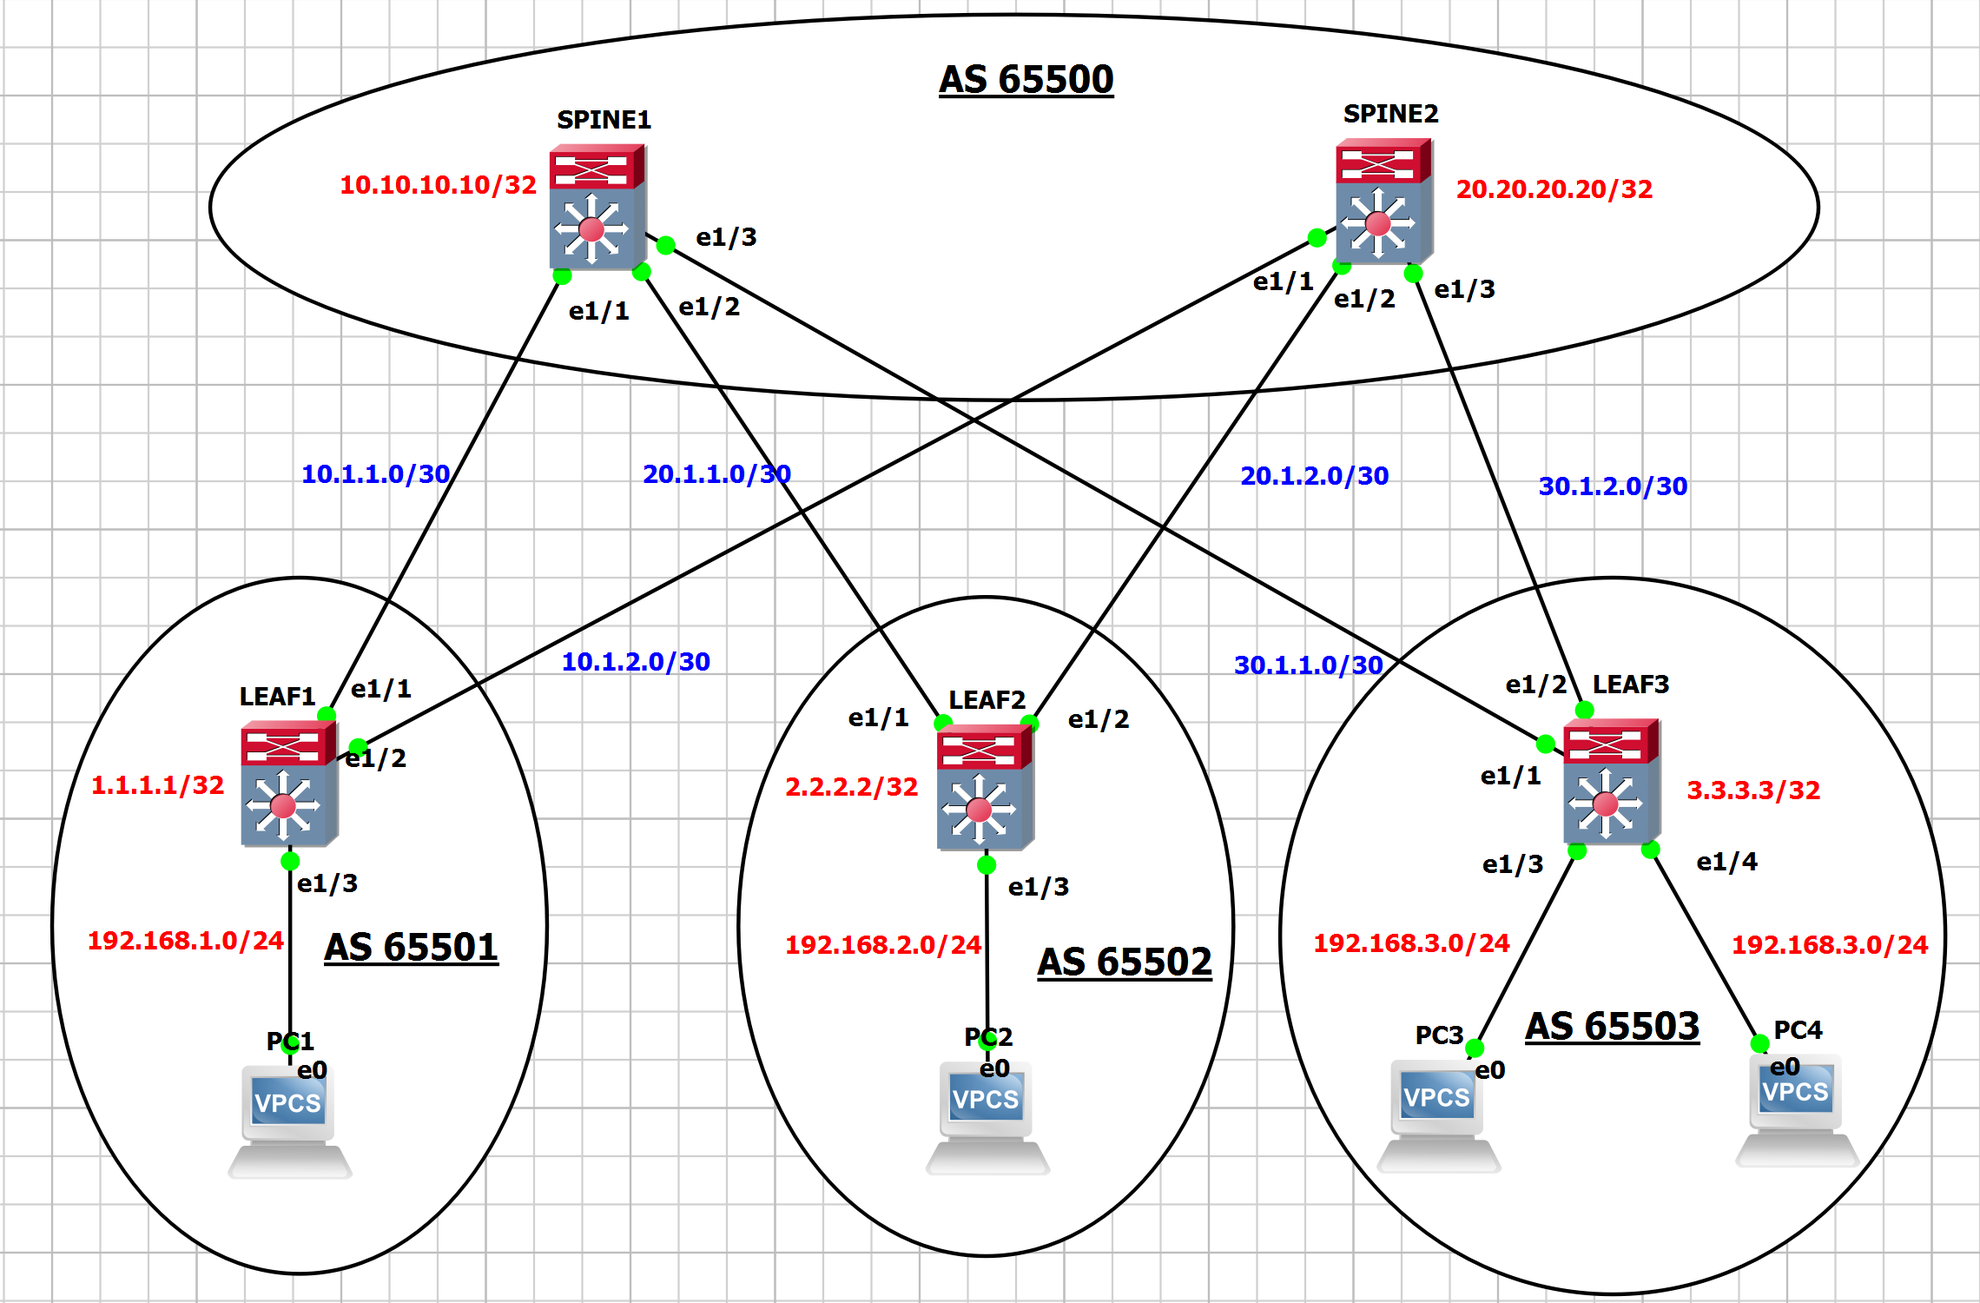
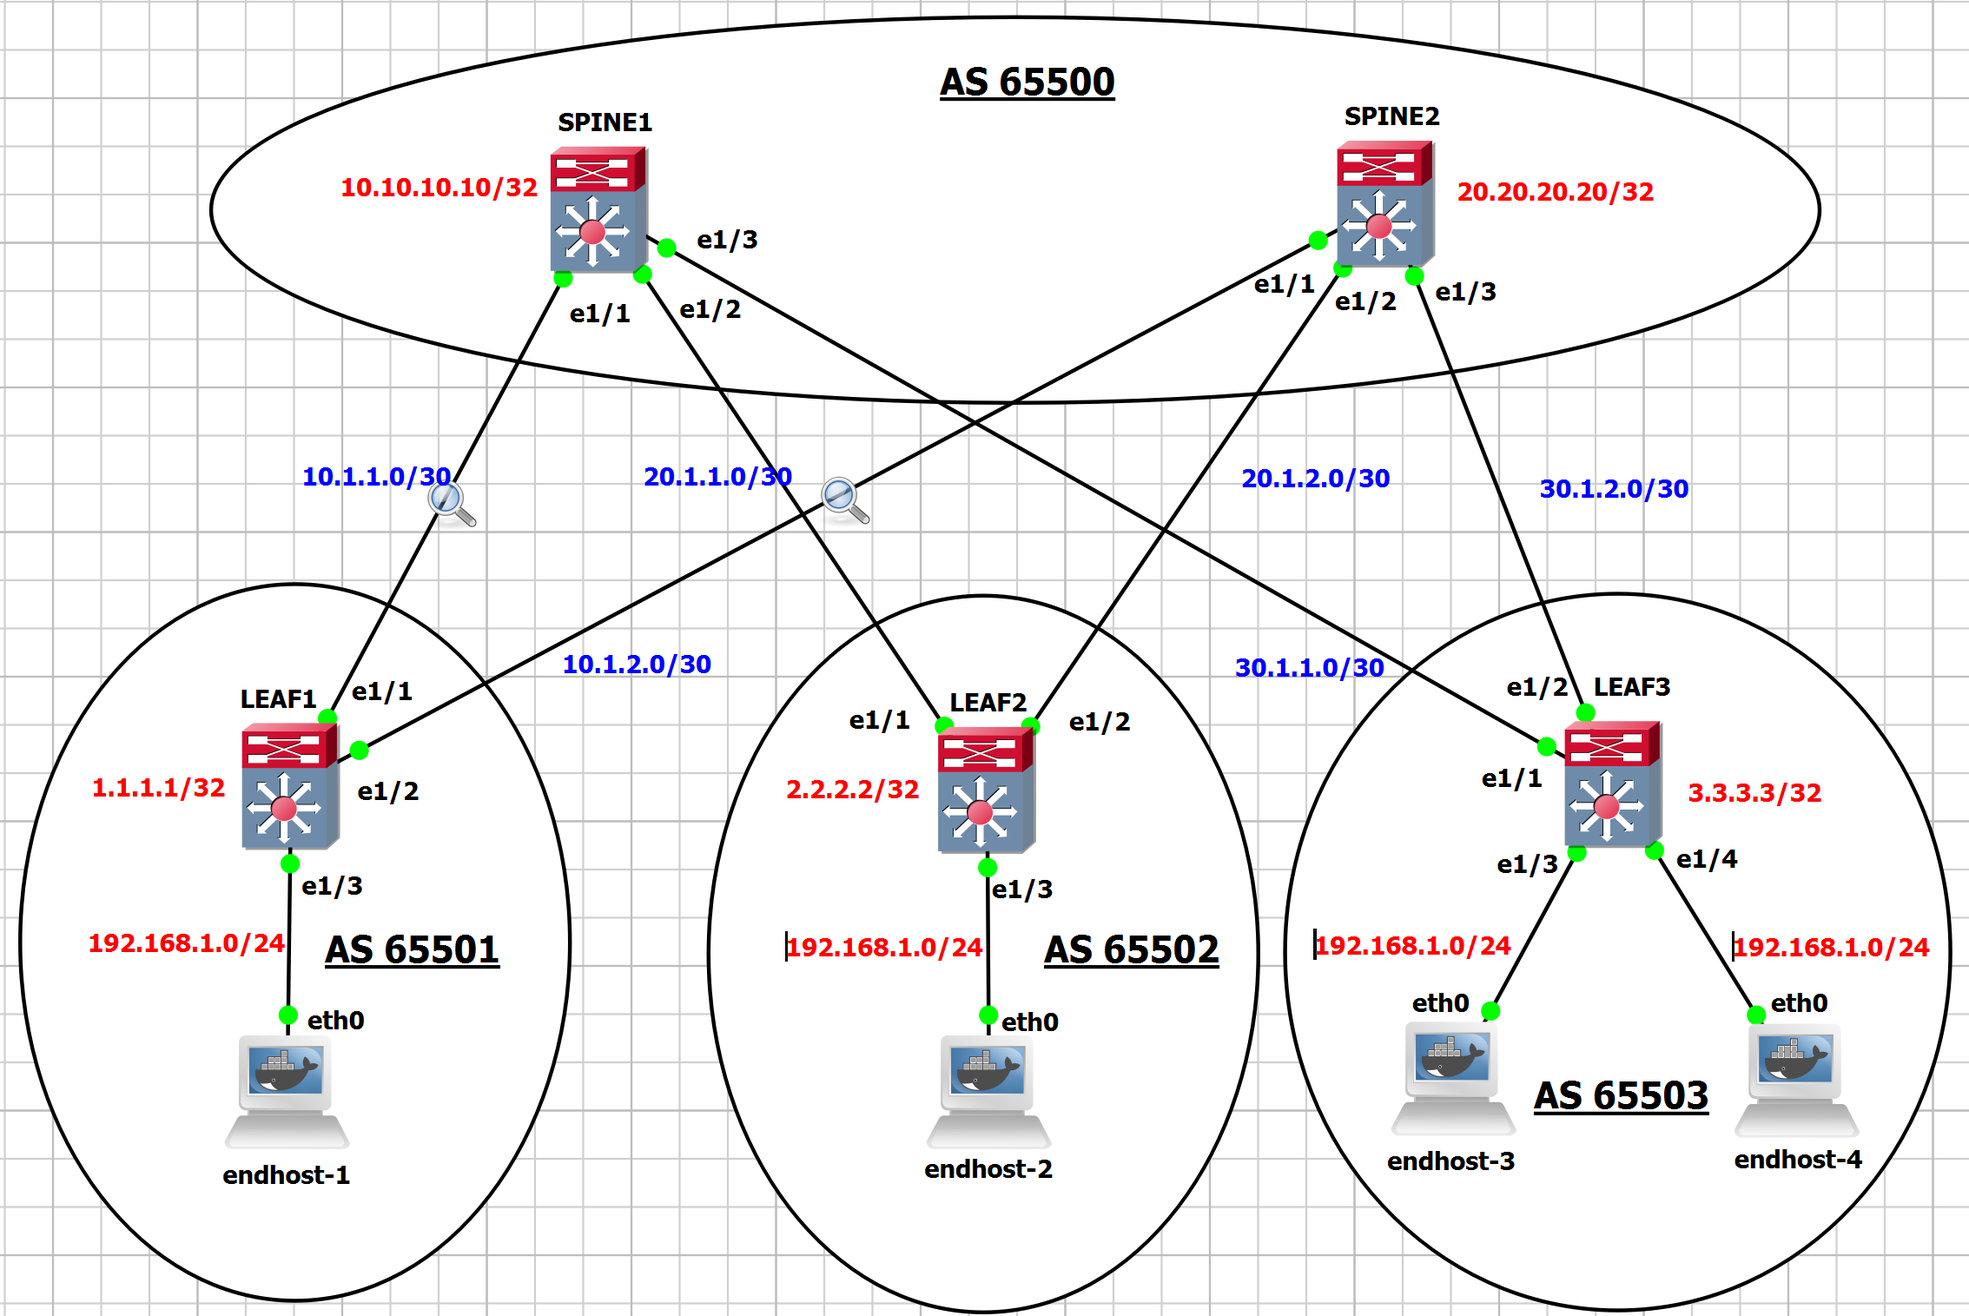
GITBOOK-32: No subject

Changed region(s): [[0.0, 0.0, 1.0, 1.0], [0.0926, 0.7667, 0.1853, 0.92], [0.5558, 0.2453, 0.5867, 0.276]]

diff --git a/labs/lab5/lab5.md b/labs/lab5/lab5.md
@@ -29,11 +29,6 @@ vlan 65
   
 route-map DIRECT-ROUTES-MAP permit 10
 
-interface Vlan65
-  description to_PC1
-  no shutdown
-  ip address 192.168.1.1/24
-
 interface nve1
   no shutdown
   host-reachability protocol bgp
@@ -116,11 +111,6 @@ vlan 65
 
 route-map DIRECT-ROUTES-MAP permit 10
 
-interface Vlan65
-  description to_PC2
-  no shutdown
-  ip address 192.168.2.1/24
-
 interface nve1
   no shutdown
   host-reachability protocol bgp
@@ -200,11 +190,6 @@ vlan 65
   vn-segment 100065
 
 route-map DIRECT-ROUTES-MAP permit 10
-
-interface Vlan65
-  description to_PC2
-  no shutdown
-  ip address 192.168.3.1/24
 
 interface nve1
   no shutdown
@@ -443,14 +428,14 @@ l2vpn evpn BGP соседства
 <pre><code><strong>LEAF1# show bgp l2vpn evpn summary
 </strong>BGP summary information for VRF default, address family L2VPN EVPN
 BGP router identifier 1.1.1.1, local AS number 65501
-BGP table version is 28, L2VPN EVPN config peers 2, capable peers 2
+BGP table version is 372, L2VPN EVPN config peers 2, capable peers 2
 12 network entries and 17 paths using 3504 bytes of memory
 BGP attribute entries [8/2880], BGP AS path entries [2/20]
 BGP community entries [0/0], BGP clusterlist entries [0/0]
 
 Neighbor        V    AS    MsgRcvd    MsgSent   TblVer  InQ OutQ Up/Down  State/PfxRcd
-10.10.10.10     4 65500      57727      57713       28    0    0    2d00h 5
-20.20.20.20     4 65500      57578      58649       28    0    0    1d23h 5
+10.10.10.10     4 65500      22285      22243      372    0    0 00:07:11 5
+20.20.20.20     4 65500      22284      22242      372    0    0 00:07:12 5
 
 Neighbor        T    AS PfxRcd     Type-2     Type-3     Type-4     Type-5
 10.10.10.10     I 65500 5          3          2          0          0
@@ -459,15 +444,15 @@ Neighbor        T    AS PfxRcd     Type-2     Type-3     Type-4     Type-5
 <strong>SPINE1# show bgp l2vpn evpn summary
 </strong>BGP summary information for VRF default, address family L2VPN EVPN
 BGP router identifier 10.10.10.10, local AS number 65500
-BGP table version is 41, L2VPN EVPN config peers 3, capable peers 3
+BGP table version is 175, L2VPN EVPN config peers 3, capable peers 3
 7 network entries and 7 paths using 2044 bytes of memory
 BGP attribute entries [6/2160], BGP AS path entries [3/18]
 BGP community entries [0/0], BGP clusterlist entries [0/0]
 
 Neighbor        V    AS    MsgRcvd    MsgSent   TblVer  InQ OutQ Up/Down  State/PfxRcd
-1.1.1.1         4 65501      57700      57694       41    0    0    2d00h 2
-2.2.2.2         4 65502      57512      58628       41    0    0    1d23h 2
-3.3.3.3         4 65503      57430      58534       41    0    0    1d23h 3
+1.1.1.1         4 65501      22268      22246      175    0    0 00:07:28 2
+2.2.2.2         4 65502      22272      22237      175    0    0 00:07:19 2
+3.3.3.3         4 65503      22271      22245      175    0    0 00:07:14 3
 
 Neighbor        T    AS PfxRcd     Type-2     Type-3     Type-4     Type-5
 1.1.1.1         I 65501 2          1          1          0          0
@@ -477,9 +462,8 @@ Neighbor        T    AS PfxRcd     Type-2     Type-3     Type-4     Type-5
 
 Полученные параметры RD и RT на LEAF1
 
-```
-LEAF1# sh bgp internal evi 100065 | i BGP|RD|RT
-BGP L2VPN/EVPN RD Information for 1.1.1.1:32832
+<pre><code><strong>LEAF1# sh bgp internal evi 100065 | i BGP|RD|RT
+</strong>BGP L2VPN/EVPN RD Information for 1.1.1.1:32832
 BGP Configured EVI Information:
   RD                         : 1.1.1.1:32832
   Secondary RD               : None
@@ -505,27 +489,27 @@ BGP VNI Information for L2-100065
   Config Import RTs          : 1
   Config Import RT list      :
   Import RT chg/chg-pending  : 0/0
-```
+</code></pre>
 
 l2vpn evpn маршруты
 
 <pre><code><strong>LEAF1# show bgp l2vpn evpn
 </strong>BGP routing table information for VRF default, address family L2VPN EVPN
-BGP table version is 28, Local Router ID is 1.1.1.1
+BGP table version is 372, Local Router ID is 1.1.1.1
 Status: s-suppressed, x-deleted, S-stale, d-dampened, h-history, *-valid, >-best
 Path type: i-internal, e-external, c-confed, l-local, a-aggregate, r-redist, I-injected
 Origin codes: i - IGP, e - EGP, ? - incomplete, | - multipath, &#x26; - backup, 2 - best2
 
    Network            Next Hop            Metric     LocPrf     Weight Path
 Route Distinguisher: 1.1.1.1:32832    (L2VNI 100065)
-*>l[2]:[0]:[0]:[48]:[0050.7966.6800]:[0]:[0.0.0.0]/216
-                      1.1.1.1                           100      32768 i
-*>e[2]:[0]:[0]:[48]:[0050.7966.6801]:[0]:[0.0.0.0]/216
+*>e[2]:[0]:[0]:[48]:[0242.3322.0900]:[0]:[0.0.0.0]/216
                       2.2.2.2                                        0 65500 65502 i
-*>e[2]:[0]:[0]:[48]:[0050.7966.6802]:[0]:[0.0.0.0]/216
+*>e[2]:[0]:[0]:[48]:[0242.48c5.3100]:[0]:[0.0.0.0]/216
                       3.3.3.3                                        0 65500 65503 i
-*>e[2]:[0]:[0]:[48]:[0050.7966.6803]:[0]:[0.0.0.0]/216
+*>e[2]:[0]:[0]:[48]:[0242.5cca.f100]:[0]:[0.0.0.0]/216
                       3.3.3.3                                        0 65500 65503 i
+*>l[2]:[0]:[0]:[48]:[0242.689d.c100]:[0]:[0.0.0.0]/216
+                      1.1.1.1                           100      32768 i
 *>l[3]:[0]:[32]:[1.1.1.1]/88
                       1.1.1.1                           100      32768 i
 *>e[3]:[0]:[32]:[2.2.2.2]/88
@@ -534,62 +518,62 @@ Route Distinguisher: 1.1.1.1:32832    (L2VNI 100065)
                       3.3.3.3                                        0 65500 65503 i
 
 Route Distinguisher: 2.2.2.2:32832
-* e[2]:[0]:[0]:[48]:[0050.7966.6801]:[0]:[0.0.0.0]/216
+*>e[2]:[0]:[0]:[48]:[0242.3322.0900]:[0]:[0.0.0.0]/216
                       2.2.2.2                                        0 65500 65502 i
-*>e                   2.2.2.2                                        0 65500 65502 i
-* e[3]:[0]:[32]:[2.2.2.2]/88
+* e                   2.2.2.2                                        0 65500 65502 i
+*>e[3]:[0]:[32]:[2.2.2.2]/88
                       2.2.2.2                                        0 65500 65502 i
-*>e                   2.2.2.2                                        0 65500 65502 i
+* e                   2.2.2.2                                        0 65500 65502 i
 
 Route Distinguisher: 3.3.3.3:32832
-*>e[2]:[0]:[0]:[48]:[0050.7966.6802]:[0]:[0.0.0.0]/216
+* e[2]:[0]:[0]:[48]:[0242.48c5.3100]:[0]:[0.0.0.0]/216
                       3.3.3.3                                        0 65500 65503 i
-* e                   3.3.3.3                                        0 65500 65503 i
-* e[2]:[0]:[0]:[48]:[0050.7966.6803]:[0]:[0.0.0.0]/216
+*>e                   3.3.3.3                                        0 65500 65503 i
+* e[2]:[0]:[0]:[48]:[0242.5cca.f100]:[0]:[0.0.0.0]/216
                       3.3.3.3                                        0 65500 65503 i
 *>e                   3.3.3.3                                        0 65500 65503 i
 *>e[3]:[0]:[32]:[3.3.3.3]/88
                       3.3.3.3                                        0 65500 65503 i
 * e                   3.3.3.3                                        0 65500 65503 i
 
-<strong>LEAF1# show bgp l2vpn evpn 0050.7966.6803
+<strong>LEAF1# show bgp l2vpn evpn 0242.3322.0900
 </strong>BGP routing table information for VRF default, address family L2VPN EVPN
 Route Distinguisher: 1.1.1.1:32832    (L2VNI 100065)
-BGP routing table entry for [2]:[0]:[0]:[48]:[0050.7966.6803]:[0]:[0.0.0.0]/216, version 20
+BGP routing table entry for [2]:[0]:[0]:[48]:[0242.3322.0900]:[0]:[0.0.0.0]/216, version 361
 Paths: (1 available, best #1)
 Flags: (0x000212) (high32 00000000) on xmit-list, is in l2rib/evpn, is not in HW
 Multipath: eBGP
 
   Advertised path-id 1
   Path type: external, path is valid, is best path, no labeled nexthop, in rib
-             Imported from 3.3.3.3:32832:[2]:[0]:[0]:[48]:[0050.7966.6803]:[0]:[0.0.0.0]/216
-  AS-Path: 65500 65503 , path sourced external to AS
-    3.3.3.3 (metric 0) from 10.10.10.10 (10.10.10.10)
+             Imported from 2.2.2.2:32832:[2]:[0]:[0]:[48]:[0242.3322.0900]:[0]:[0.0.0.0]/216
+  AS-Path: 65500 65502 , path sourced external to AS
+    2.2.2.2 (metric 0) from 20.20.20.20 (20.20.20.20)
       Origin IGP, MED not set, localpref 100, weight 0
       Received label 100065
       Extcommunity: RT:65501:100065 ENCAP:8
 
   Path-id 1 not advertised to any peer
 
-Route Distinguisher: 3.3.3.3:32832
-BGP routing table entry for [2]:[0]:[0]:[48]:[0050.7966.6803]:[0]:[0.0.0.0]/216, version 21
-Paths: (2 available, best #2)
+Route Distinguisher: 2.2.2.2:32832
+BGP routing table entry for [2]:[0]:[0]:[48]:[0242.3322.0900]:[0]:[0.0.0.0]/216, version 363
+Paths: (2 available, best #1)
 Flags: (0x000202) (high32 00000000) on xmit-list, is not in l2rib/evpn, is not in HW
 Multipath: eBGP
-
-  Path type: external, path is valid, not best reason: newer EBGP path, no labeled nexthop
-  AS-Path: 65500 65503 , path sourced external to AS
-    3.3.3.3 (metric 0) from 20.20.20.20 (20.20.20.20)
-      Origin IGP, MED not set, localpref 100, weight 0
-      Received label 100065
-      Extcommunity: RT:65501:100065 ENCAP:8
 
   Advertised path-id 1
   Path type: external, path is valid, is best path, no labeled nexthop
              Imported to 1 destination(s)
              Imported paths list: L2-100065
-  AS-Path: 65500 65503 , path sourced external to AS
-    3.3.3.3 (metric 0) from 10.10.10.10 (10.10.10.10)
+  AS-Path: 65500 65502 , path sourced external to AS
+    2.2.2.2 (metric 0) from 20.20.20.20 (20.20.20.20)
+      Origin IGP, MED not set, localpref 100, weight 0
+      Received label 100065
+      Extcommunity: RT:65501:100065 ENCAP:8
+
+  Path type: external, path is valid, not best reason: newer EBGP path, no labeled nexthop
+  AS-Path: 65500 65502 , path sourced external to AS
+    2.2.2.2 (metric 0) from 10.10.10.10 (10.10.10.10)
       Origin IGP, MED not set, localpref 100, weight 0
       Received label 100065
       Extcommunity: RT:65501:100065 ENCAP:8
@@ -615,86 +599,123 @@ Flags -(Rmac):Router MAC (Stt):Static (L):Local (R):Remote
 (PipPeerOrp): Orphan connected to peer of PIP based vPC BGW
 Topology    Mac Address    Prod   Flags              Seq No     Next-Hops
 ----------- -------------- ------ ------------------- ---------- ---------------------------------------------------------
-65          0050.7966.6800 Local  L,                 0          Eth1/3
-65          0050.7966.6801 BGP    Rcv                0          2.2.2.2 (Label: 100065)
-65          0050.7966.6802 BGP    Rcv                0          3.3.3.3 (Label: 100065)
-65          0050.7966.6803 BGP    Rcv                0          3.3.3.3 (Label: 100065)
+65          0242.3322.0900 BGP    Rcv                0          2.2.2.2 (Label: 100065)
+65          0242.48c5.3100 BGP    Rcv                0          3.3.3.3 (Label: 100065)
+65          0242.5cca.f100 BGP    Rcv                0          3.3.3.3 (Label: 100065)
+65          0242.689d.c100 Local  L,                 0          Eth1/3
 </code></pre>
 
 <pre><code><strong>SPINE1# show bgp l2vpn evpn
 </strong>BGP routing table information for VRF default, address family L2VPN EVPN
-BGP table version is 41, Local Router ID is 10.10.10.10
+BGP table version is 175, Local Router ID is 10.10.10.10
 Status: s-suppressed, x-deleted, S-stale, d-dampened, h-history, *-valid, >-best
 Path type: i-internal, e-external, c-confed, l-local, a-aggregate, r-redist, I-injected
 Origin codes: i - IGP, e - EGP, ? - incomplete, | - multipath, &#x26; - backup, 2 - best2
 
    Network            Next Hop            Metric     LocPrf     Weight Path
 Route Distinguisher: 1.1.1.1:32832
-*>e[2]:[0]:[0]:[48]:[0050.7966.6800]:[0]:[0.0.0.0]/216
+*>e[2]:[0]:[0]:[48]:[0242.689d.c100]:[0]:[0.0.0.0]/216
                       1.1.1.1                                        0 65501 i
 *>e[3]:[0]:[32]:[1.1.1.1]/88
                       1.1.1.1                                        0 65501 i
 
 Route Distinguisher: 2.2.2.2:32832
-*>e[2]:[0]:[0]:[48]:[0050.7966.6801]:[0]:[0.0.0.0]/216
+*>e[2]:[0]:[0]:[48]:[0242.3322.0900]:[0]:[0.0.0.0]/216
                       2.2.2.2                                        0 65502 i
 *>e[3]:[0]:[32]:[2.2.2.2]/88
                       2.2.2.2                                        0 65502 i
 
 Route Distinguisher: 3.3.3.3:32832
-*>e[2]:[0]:[0]:[48]:[0050.7966.6802]:[0]:[0.0.0.0]/216
+*>e[2]:[0]:[0]:[48]:[0242.48c5.3100]:[0]:[0.0.0.0]/216
                       3.3.3.3                                        0 65503 i
-*>e[2]:[0]:[0]:[48]:[0050.7966.6803]:[0]:[0.0.0.0]/216
+*>e[2]:[0]:[0]:[48]:[0242.5cca.f100]:[0]:[0.0.0.0]/216
                       3.3.3.3                                        0 65503 i
 *>e[3]:[0]:[32]:[3.3.3.3]/88
-                      3.3.3.3                                        0 65503 i
+                      3.3.3.3                                        0 65503 i                         0 65503 i
 
-<strong>SPINE1# show bgp l2vpn evpn 0050.7966.6800
+<strong>SPINE1# show bgp l2vpn evpn 0242.3322.0900
 </strong>BGP routing table information for VRF default, address family L2VPN EVPN
-Route Distinguisher: 1.1.1.1:32832
-BGP routing table entry for [2]:[0]:[0]:[48]:[0050.7966.6800]:[0]:[0.0.0.0]/216, version 41
+Route Distinguisher: 2.2.2.2:32832
+BGP routing table entry for [2]:[0]:[0]:[48]:[0242.3322.0900]:[0]:[0.0.0.0]/216, version 168
 Paths: (1 available, best #1)
 Flags: (0x000202) (high32 00000000) on xmit-list, is not in l2rib/evpn, is not in HW
 
   Advertised path-id 1
   Path type: external, path is valid, is best path, no labeled nexthop
-  AS-Path: 65501 , path sourced external to AS
-    1.1.1.1 (metric 0) from 1.1.1.1 (1.1.1.1)
+  AS-Path: 65502 , path sourced external to AS
+    2.2.2.2 (metric 0) from 2.2.2.2 (2.2.2.2)
       Origin IGP, MED not set, localpref 100, weight 0
       Received label 100065
       Extcommunity: RT:65500:100065 ENCAP:8
 
   Path-id 1 advertised to peers:
-    2.2.2.2            3.3.3.3
+    1.1.1.1            3.3.3.3
 </code></pre>
 
-Проверка связности между PC1 и PC3
-
-Видим, что связность в текущей конфигурации между хостами сохранена.
+Проверка связности между endhost-1, endhost-2, endhost-3 и endhost-4&#x20;
 
 ```
-PC1> show ip
+/ # ip a
+1: lo: <LOOPBACK,UP,LOWER_UP> mtu 65536 qdisc noqueue state UNKNOWN qlen 1000
+    link/loopback 00:00:00:00:00:00 brd 00:00:00:00:00:00
+    inet 127.0.0.1/8 scope host lo
+       valid_lft forever preferred_lft forever
+    inet6 ::1/128 scope host
+       valid_lft forever preferred_lft forever
+14: eth0: <BROADCAST,MULTICAST,UP,LOWER_UP> mtu 1500 qdisc fq_codel state UNKNOWN qlen 1000
+    link/ether 02:42:68:9d:c1:00 brd ff:ff:ff:ff:ff:ff
+    inet 192.168.1.1/24 scope global eth0
+       valid_lft forever preferred_lft forever
+    inet6 fe80::42:68ff:fe9d:c100/64 scope link
+       valid_lft forever preferred_lft forever
 
-NAME        : PC1[1]
-IP/MASK     : 192.168.1.2/24
-GATEWAY     : 192.168.1.1
-DNS         :
-MAC         : 00:50:79:66:68:00
-LPORT       : 10060
-RHOST:PORT  : 127.0.0.1:10061
-MTU         : 1500
+/ # ping 192.168.1.2
+PING 192.168.1.2 (192.168.1.2) 56(84) bytes of data.
+64 bytes from 192.168.1.2: icmp_seq=1 ttl=64 time=8.31 ms
+64 bytes from 192.168.1.2: icmp_seq=2 ttl=64 time=11.6 ms
+64 bytes from 192.168.1.2: icmp_seq=3 ttl=64 time=7.90 ms
+64 bytes from 192.168.1.2: icmp_seq=4 ttl=64 time=13.6 ms
+64 bytes from 192.168.1.2: icmp_seq=5 ttl=64 time=12.6 ms
+^C
+--- 192.168.1.2 ping statistics ---
+58 packets transmitted, 58 received, 0% packet loss, time 57071ms
+rtt min/avg/max/mdev = 7.309/13.937/21.076/2.518 ms
 
-PC1> ping 192.168.3.2
+/ # ping 192.168.1.3
+PING 192.168.1.3 (192.168.1.3) 56(84) bytes of data.
+64 bytes from 192.168.1.3: icmp_seq=1 ttl=64 time=30.4 ms
+64 bytes from 192.168.1.3: icmp_seq=2 ttl=64 time=17.7 ms
+64 bytes from 192.168.1.3: icmp_seq=3 ttl=64 time=15.0 ms
+64 bytes from 192.168.1.3: icmp_seq=4 ttl=64 time=16.9 ms
+64 bytes from 192.168.1.3: icmp_seq=5 ttl=64 time=15.2 ms
+^C
+--- 192.168.1.3 ping statistics ---
+5 packets transmitted, 5 received, 0% packet loss, time 4004ms
+rtt min/avg/max/mdev = 15.038/19.042/30.381/5.757 ms
 
-84 bytes from 192.168.3.2 icmp_seq=1 ttl=61 time=28.173 ms
-84 bytes from 192.168.3.2 icmp_seq=2 ttl=61 time=17.605 ms
-84 bytes from 192.168.3.2 icmp_seq=3 ttl=61 time=11.312 ms
-84 bytes from 192.168.3.2 icmp_seq=4 ttl=61 time=11.955 ms
-84 bytes from 192.168.3.2 icmp_seq=5 ttl=61 time=10.626 ms
+/ # ping 192.168.1.4
+PING 192.168.1.4 (192.168.1.4) 56(84) bytes of data.
+64 bytes from 192.168.1.4: icmp_seq=1 ttl=64 time=17.5 ms
+64 bytes from 192.168.1.4: icmp_seq=2 ttl=64 time=7.36 ms
+64 bytes from 192.168.1.4: icmp_seq=3 ttl=64 time=14.5 ms
+64 bytes from 192.168.1.4: icmp_seq=4 ttl=64 time=14.7 ms
+64 bytes from 192.168.1.4: icmp_seq=5 ttl=64 time=21.9 ms
+^C
+--- 192.168.1.4 ping statistics ---
+5 packets transmitted, 5 received, 0% packet loss, time 4005ms
+rtt min/avg/max/mdev = 7.359/15.184/21.879/4.737 ms
 ```
+
+#### Wireshark dump
+
+Захват трафика на линках между LEAF1 и SPINE1, а также LEAF1 и SPINE2 показывает, что у нас работает ECMP, потому что пакеты ICMP, инкапсулированные в VXLAN видны в обоих случаях.
+
+<figure><img src="../.gitbook/assets/Dump Lab_5.PNG" alt=""><figcaption></figcaption></figure>
 
 #### Выводы
 
 Таким образом, нам удалось настроить VXLAN туннели, использующие EVPN в качестве Control Plain протокола, распространяющего маршрутную информацию о mac адресах устройств.&#x20;
 
 Соседства l2vpn evpn bgp успешно поднялись и маршрутная информация на уровне L2 получена всеми устройствами.
+
+Связность между узлами сети имеется.&#x20;
